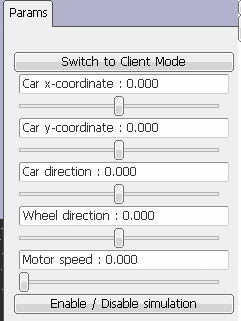
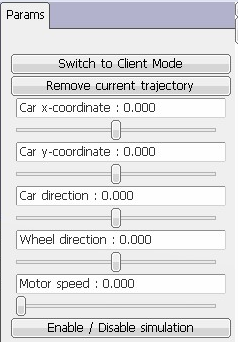
refinement of trajectory control

diff --git a/lib/smart_car_server.py b/lib/smart_car_server.py
@@ -1,7 +1,6 @@
 import numpy as np
 
 import pybullet as p
-# import pybullet_data
 
 from PIL import Image
 from time import sleep
@@ -9,8 +8,8 @@ from time import sleep
 import socket
 import select
 
-IMG_WIDTH = 128 #10
-IMG_HEIGHT = 120 #12
+IMG_WIDTH = 128
+IMG_HEIGHT = 120
 
 DEFAULT_FRAME_RATE = 1./240.
 
@@ -27,6 +26,8 @@ class pyBulletView:
 
         if self.viewMode == 0:
             self.btnSwitchCamera = p.addUserDebugParameter('Switch to Client Mode', 1, 0, 0)
+            
+            self.btnRemoveMark = p.addUserDebugParameter('Remove current trajectory', 1, 0, 0)
 
             self.sldCarX = p.addUserDebugParameter('Car x-coordinate', -5, 5, 0)
             self.sldCarY = p.addUserDebugParameter('Car y-coordinate', -5, 5, 0)
@@ -42,7 +43,7 @@ class pyBulletView:
             self.sldCameraAngle = p.addUserDebugParameter('Car camera angle', -1, 1, 0.5)
 
             self.btnEnableMarking = p.addUserDebugParameter('Show / Hide trajectory', 1, 0, 0)
-            
+
             self.btnTakePic = p.addUserDebugParameter('Take and save camera picture', 1, 0, 0)
 
         self.btnStartSimulation = p.addUserDebugParameter('Enable / Disable simulation', 1, 0, 0)
@@ -60,6 +61,7 @@ class pyBulletView:
         self.__markFrom = [[0]*3]*4
 
         self.lastTakePicClicked = 0
+        self.lastRemoveMarkClicked = 0
 
         # User input device data
         self.__isKeyLeftPressed = False
@@ -161,7 +163,7 @@ class pyBulletView:
     def cameraControl(self):
         if self.viewMode == 0:
             *_, cameraYaw, cameraPitch, self.cameraDistance, [camX, camY, camZ] = p.getDebugVisualizerCamera()
-            
+
             if (self.__isKeyLeftPressed):
                 camX -= .02 * np.cos(np.deg2rad(cameraYaw))
                 camY -= .02 * np.sin(np.deg2rad(cameraYaw))
@@ -177,9 +179,6 @@ class pyBulletView:
             
             cameraTargetPosition = [camX, camY, camZ]
         elif self.viewMode == 1:
-            if self.__counter % 50 == 0:
-                self.leaveMarking(self.trajectoryOn == 1)
-
             cameraYaw = np.degrees(self.__carBaseYaw - np.pi / 2)
             cameraPitch = - np.rad2deg(self.camAngle)
             planarOffset = (1 - self.cameraDistance * (1 - np.cos(self.camAngle)))
@@ -187,33 +186,39 @@ class pyBulletView:
                 self.__carBaseX + np.cos(self.__carBaseYaw) * planarOffset,
                 self.__carBaseY + np.sin(self.__carBaseYaw) * planarOffset,
                 self.__carBaseZ + self.cameraHeight - self.cameraDistance * np.sin(self.camAngle)
-            )
-                       
-            self.carImage = p.getCameraImage(IMG_WIDTH, IMG_HEIGHT)[2]
+            )            
 
         p.resetDebugVisualizerCamera(self.cameraDistance, cameraYaw, cameraPitch, cameraTargetPosition)
 
     def pictureControl(self):
         if self.viewMode != 1: return
 
+        self.carImage = p.getCameraImage(IMG_WIDTH, IMG_HEIGHT)[2]
+
         if self.lastTakePicClicked != p.readUserDebugParameter(self.btnTakePic):
             im = Image.fromarray(self.getCarCameraImage(), mode="L")
-            
             im.save("capture.png")
             
             self.lastTakePicClicked = p.readUserDebugParameter(self.btnTakePic)
 
+    def pathControl(self):
+        if self.viewMode == 0:
+            if self.lastRemoveMarkClicked != p.readUserDebugParameter(self.btnRemoveMark):
+                p.removeAllUserDebugItems()
+                
+                self.lastRemoveMarkClicked = p.readUserDebugParameter(self.btnRemoveMark)
+        elif self.viewMode == 1:
+            if self.__counter % 50 == 0:
+                self.leaveMarking(self.trajectoryOn == 1)
+
     def leaveMarking(self, mark):
         LFmarkTo, RFmarkTo, LBmarkTo, RBmarkTo = p.getLinkStates(self.car, self.wheel_indices)
         if mark:
-            p.addUserDebugLine(self.__markFrom[0], LFmarkTo[0], [0, 0, 1], 1, 0)
-            p.addUserDebugLine(self.__markFrom[1], RFmarkTo[0], [0, 0, 1], 1, 0)
-            p.addUserDebugLine(self.__markFrom[2], LBmarkTo[0], [1, 0, 0], 1, 0)
-            p.addUserDebugLine(self.__markFrom[3], RBmarkTo[0], [1, 0, 0], 1, 0)
-        self.__markFrom[0] = LFmarkTo[0]
-        self.__markFrom[1] = RFmarkTo[0]
-        self.__markFrom[2] = LBmarkTo[0]
-        self.__markFrom[3] = RBmarkTo[0]
+            p.addUserDebugLine(self.__markFrom[0], LFmarkTo[0], [1, 0, 1], 1, 0)
+            p.addUserDebugLine(self.__markFrom[1], RFmarkTo[0], [1, 0, 1], 1, 0)
+            p.addUserDebugLine(self.__markFrom[2], LBmarkTo[0], [1, 1, 0], 1, 0)
+            p.addUserDebugLine(self.__markFrom[3], RBmarkTo[0], [1, 1, 0], 1, 0)
+        self.__markFrom = LFmarkTo[0], RFmarkTo[0], LBmarkTo[0], RBmarkTo[0]
 
     def getCarCameraImage(self):
         return np.dot(self.carImage[...,:3], [0.299, 0.587, 0.114]).astype(np.uint8)
@@ -257,6 +262,7 @@ class pySCserver:
         self.pBV.motorControl(self.__motor_speed, self.__motor_turn)
         self.pBV.cameraControl()
         self.pBV.pictureControl()
+        self.pBV.pathControl()
 
         self.pBV.nextFrame(delay)
 

diff --git a/README.md b/README.md
@@ -105,12 +105,13 @@ There are two modes for our simulation. The God Mode is for freestyle and manual
 ![God Mode Parameters](readme_img/god_mode_params.png)
 
 1. Button to switch to Client Mode
-2. Slider to adjust the car's x-coordinate before simulation
-3. Slider to adjust the car's y-coordinate before simulation
-4. Slider to adjust the car's direction before simulation
-5. Slider to adjust the turning of the car during simulation
-6. Slider to adjust the speed of the car during simulation
-7. Button to start or end simulation
+2. Button to remove the current trajectory if there is any
+3. Slider to adjust the car's x-coordinate before simulation
+4. Slider to adjust the car's y-coordinate before simulation
+5. Slider to adjust the car's direction before simulation
+6. Slider to adjust the turning of the car during simulation
+7. Slider to adjust the speed of the car during simulation
+8. Button to start or end simulation
 
 #### Client Mode
 
@@ -126,8 +127,9 @@ There are two modes for our simulation. The God Mode is for freestyle and manual
 
 ## To-do list 
 - **code refactoring and beautifying**
-- only control front wheel for turn, back for speed
 - car mass distribution, friction, size matching units
+- hoist all constant, reset button to user-stored, save all customizable value to csv (np.savetxt): like a config file
+- only control front wheel for turn, back for speed
 - camera projection view (i.e. fish eye stuff)
 - really moving car camera
 - gradual change of motor speed
@@ -136,6 +138,7 @@ There are two modes for our simulation. The God Mode is for freestyle and manual
 - new command: reset simulation, this maybe useful for deep learning
 - PID (PD Control as in setJointMotorControl2)
 - multiple clients in same server
+- continue commands if server down but client not down
 
 ## Q&A
 
